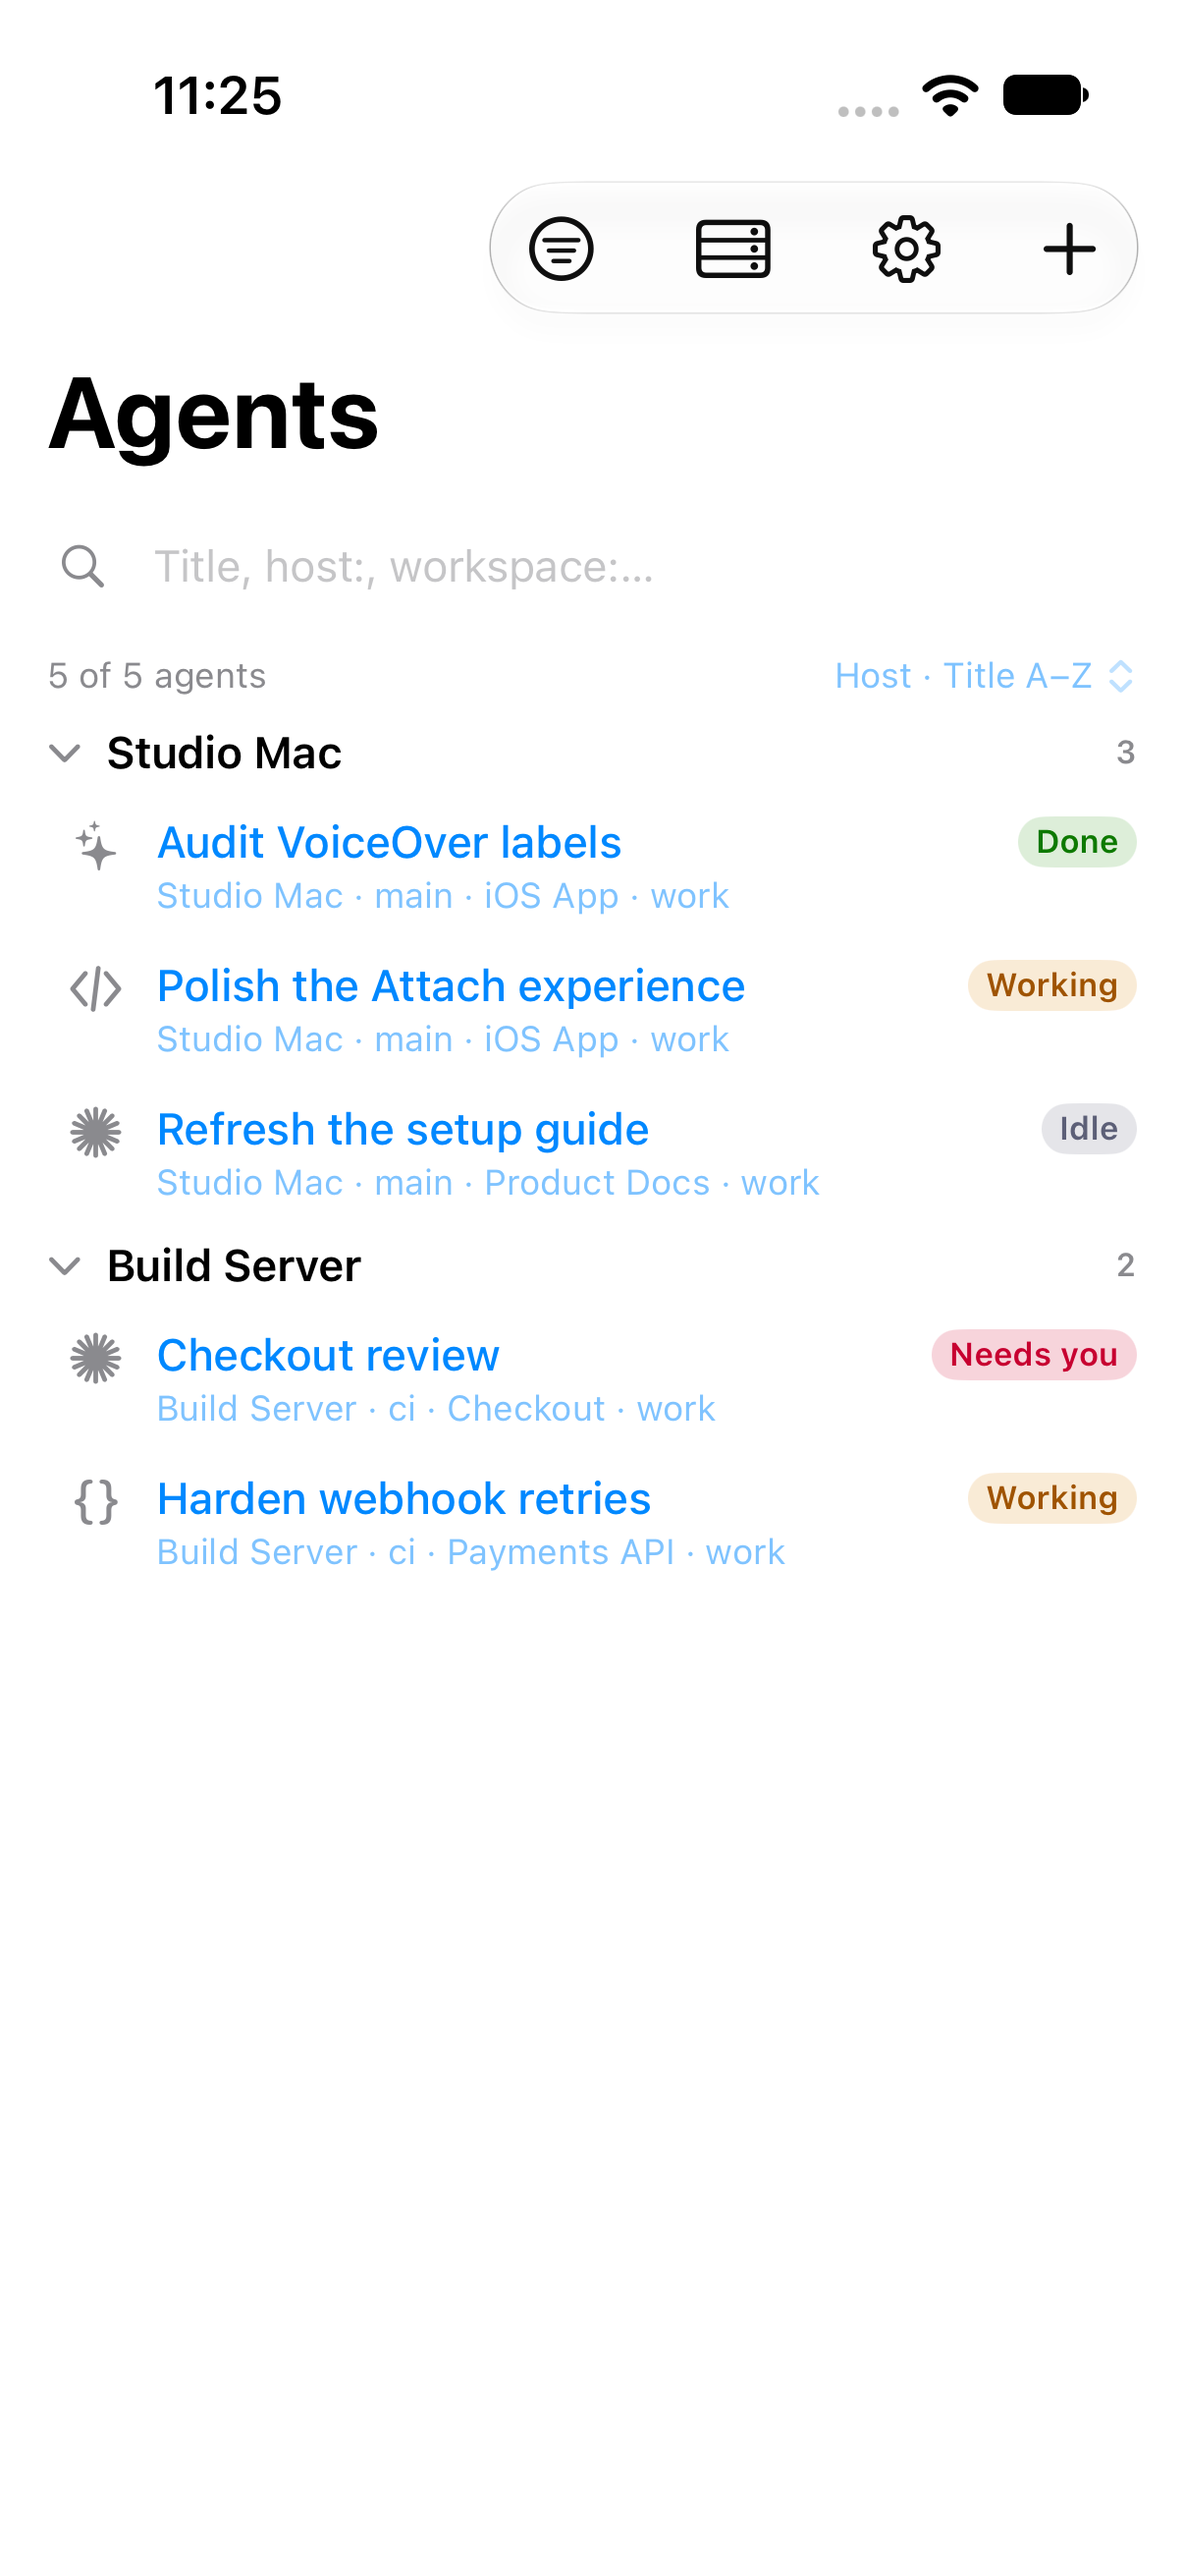
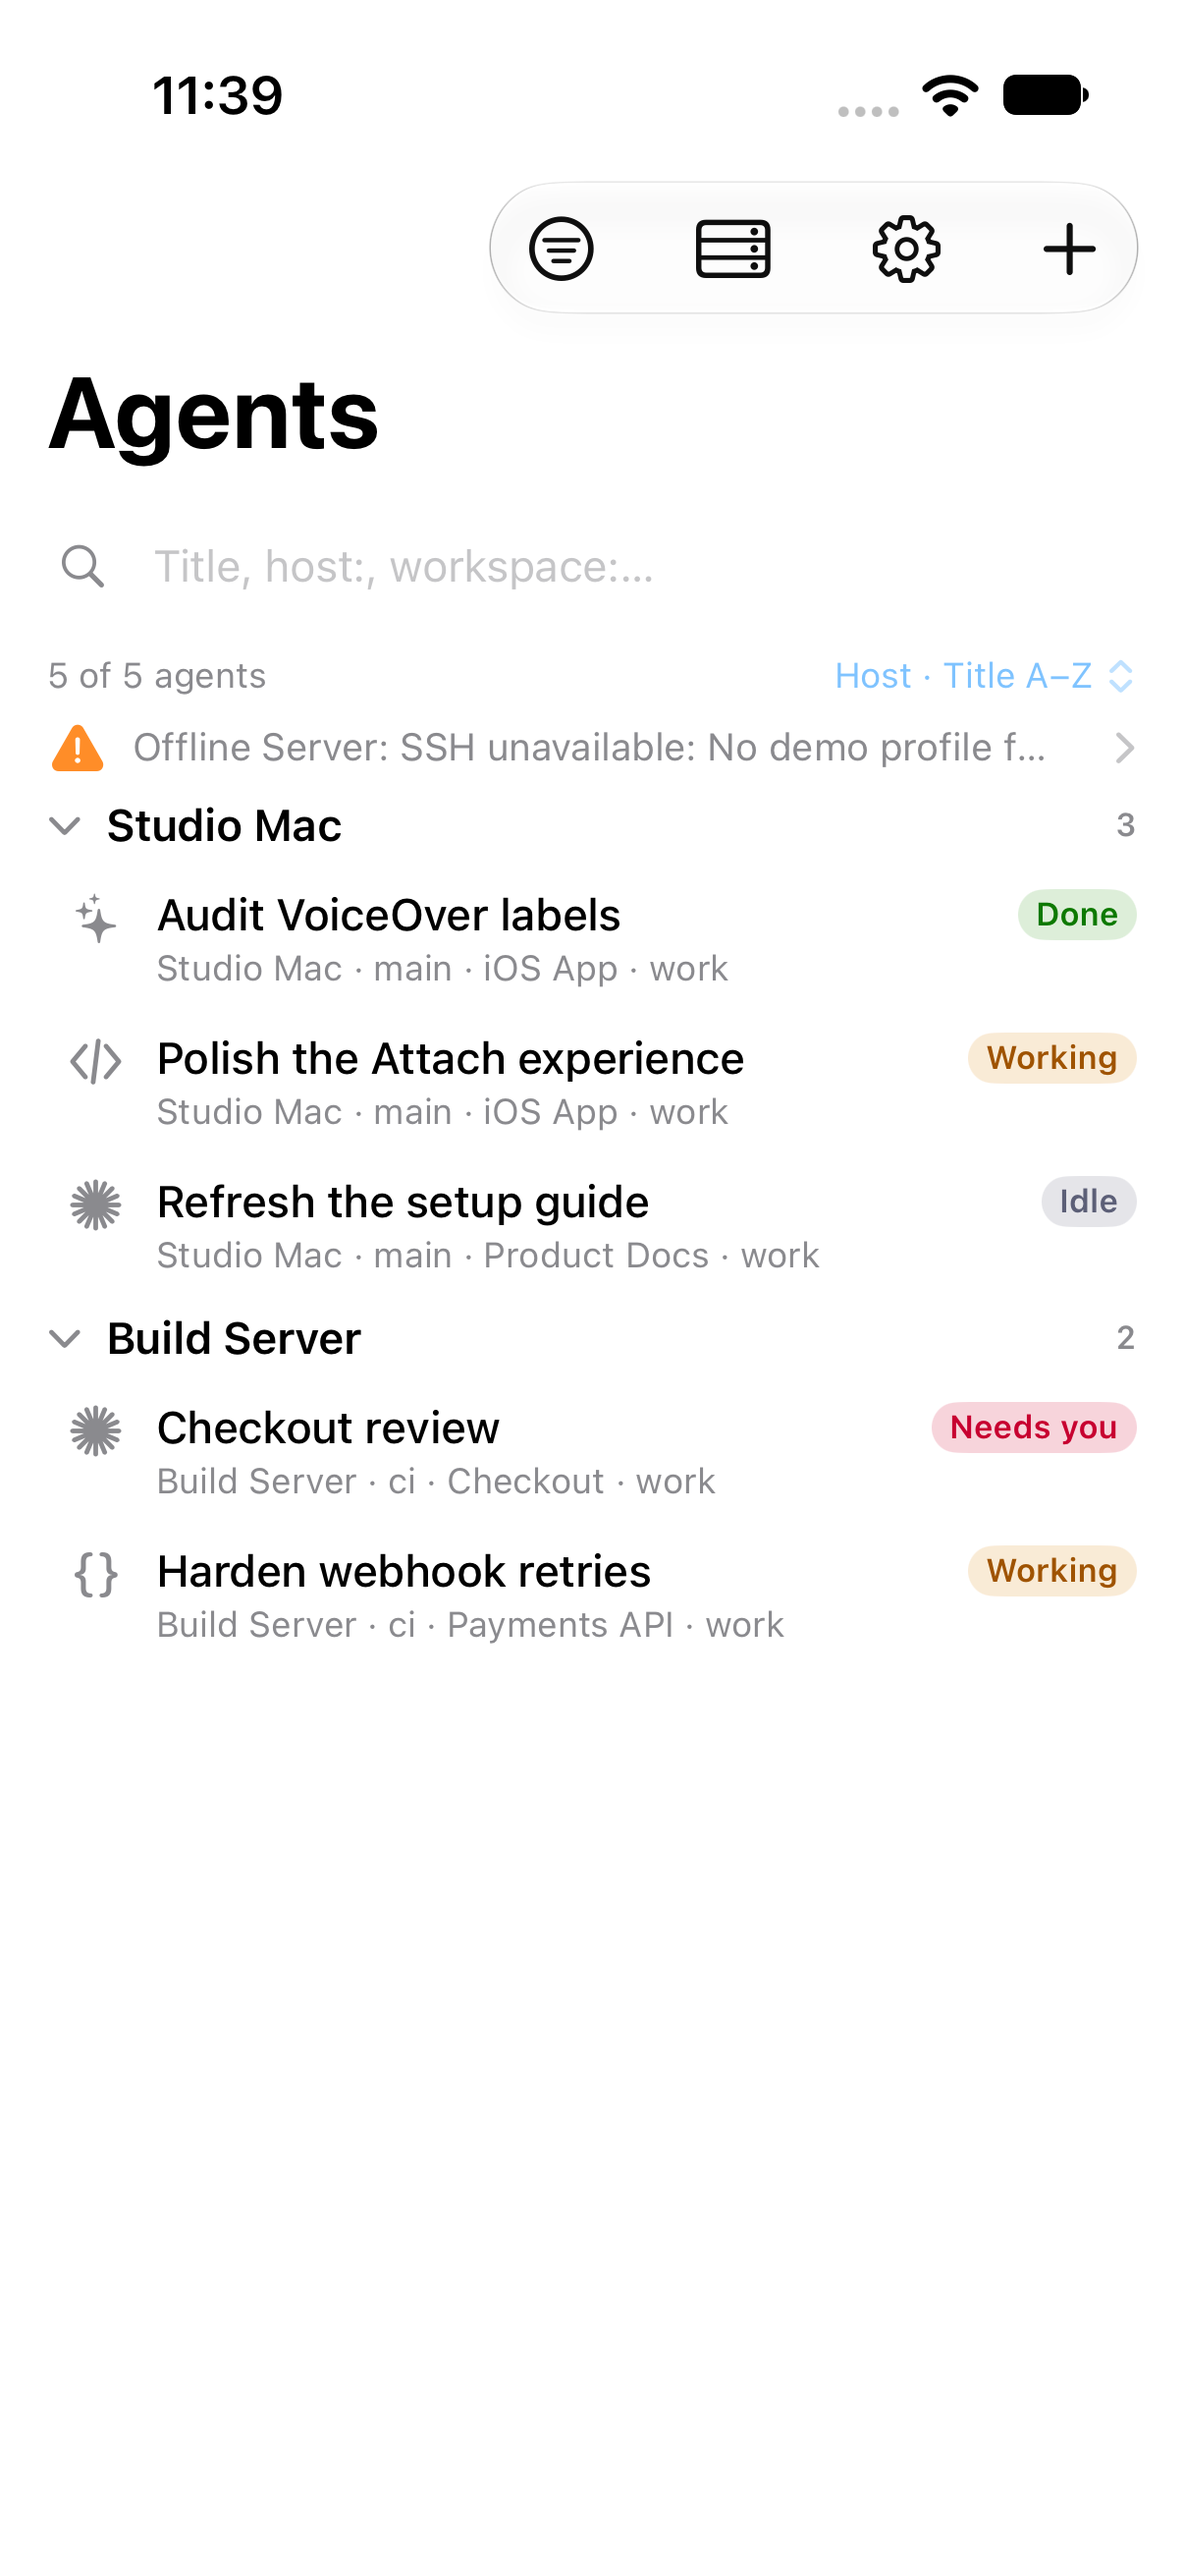
Agents redesign: fix grouped-path regressions
Plain NavigationLink styling (neutral tint, press affordance kept);
host-issue rows in the grouped ScrollView reuse the flat list's
presentHosts handler (tappable, proven). Demo fixture gains an
always-offline third host for the deterministic issue-row proof.

diff --git a/Tests/HeelerTests/DemoScreenshotModeTests.swift b/Tests/HeelerTests/DemoScreenshotModeTests.swift
@@ -21,11 +21,13 @@
             let profiles = DemoScreenshotFixture.profiles
             let agents = hosts.flatMap { profiles[$0.id]?.snapshot.agents ?? [] }
 
-            #expect(hosts.map(\.displayName) == ["Studio Mac", "Build Server"])
+            #expect(hosts.map(\.displayName)
+                == ["Studio Mac", "Build Server", "Offline Server"])
             #expect(
                 hosts.map(\.id) == [
                     DemoScreenshotFixture.studioHostID,
                     DemoScreenshotFixture.buildHostID,
+                    DemoScreenshotFixture.offlineHostID,
                 ])
             #expect(Set(agents.map(\.agentStatus)) == [.blocked, .working, .done, .idle])
             #expect(
@@ -41,9 +43,13 @@
             await composition.console.resume()
             defer { composition.console.setHosts([]) }
 
+            // The Offline Server never connects (no demo profile), so
+            // its snapshot legitimately never arrives — wait on the
+            // connectable Hosts only.
             while composition.console.agents.count != 5
-                || composition.hosts.hosts.contains(where: {
-                    composition.console.sidebarSnapshots.snapshot(for: $0.id) == nil
+                || composition.hosts.hosts.contains(where: { host in
+                    host.id != DemoScreenshotFixture.offlineHostID
+                        && composition.console.sidebarSnapshots.snapshot(for: host.id) == nil
                 })
             {
                 let changes = AsyncStream<Void>.makeStream()
@@ -60,9 +66,15 @@
             #expect(composition.console.agents.count == 5)
             #expect(composition.console.agents.first?.agent.status == .blocked)
             #expect(composition.console.agents.first?.hostName == "Build Server")
-            #expect(composition.console.hostStatuses.values.allSatisfy { $0 == .connected })
+            // The Offline Server never connects by design; the rest
+            // must all be connected.
+            #expect(composition.console.hostStatuses
+                .filter { key, _ in key != DemoScreenshotFixture.offlineHostID }
+                .values.allSatisfy { $0 == .connected })
+            #expect(composition.console.hostStatuses[DemoScreenshotFixture.offlineHostID] != .connected)
 
-            for host in composition.hosts.hosts {
+            for host in composition.hosts.hosts
+            where host.id != DemoScreenshotFixture.offlineHostID {
                 let bytes = try await composition.console.withNotificationTransport(for: host.id) {
                     try await $0.readSidebarLayout()
                 }

diff --git a/Tests/HeelerUITests/AgentsRedesignProofTests.swift b/Tests/HeelerUITests/AgentsRedesignProofTests.swift
@@ -375,6 +375,36 @@ final class AgentsRedesignProofTests: XCTestCase {
         print("MEASURED group header height: \(headerHeight)pt")
     }
 
+    // MARK: Re-review regressions — grouped-mode host issues navigate
+
+    func testGroupedHostIssueRowNavigatesToHosts() {
+        resetViewMenu()
+        waitToExist(row(containing: "Polish the Attach experience"))
+        // Group by state: the host-issue rows (Offline Server, which fails
+        // to connect in the demo fixture) render above the groups and must
+        // navigate to Hosts — the SAME handler as the flat list.
+        let menu = app.buttons["Agent list view options"].firstMatch
+        menu.tap()
+        let stateGroup = app.buttons["Agent state"].firstMatch
+        XCTAssertTrue(stateGroup.waitForExistence(timeout: 5))
+        stateGroup.tap()
+        XCTAssertTrue(staticText(containing: "Needs you").waitForExistence(timeout: 5))
+
+        let issue = app.buttons.matching(
+            NSPredicate(format: "label CONTAINS %@", "Offline Server")).firstMatch
+        XCTAssertTrue(
+            issue.waitForExistence(timeout: UITestTimeouts.standard),
+            "the offline host's issue row must render in grouped mode")
+        captureScreenshot(app, "agents-grouped-neutral-tint", lifetime: .keepAlways)
+        issue.tap()
+        // The Hosts surface presents (HostListView owns its navigation
+        // stack, so its bar appears).
+        let hostsBar = app.navigationBars.firstMatch
+        XCTAssertTrue(hostsBar.waitForExistence(timeout: UITestTimeouts.standard),
+                      "tapping the issue row must present Hosts")
+        captureScreenshot(app, "agents-grouped-issue-tapped-hosts", lifetime: .keepAlways)
+    }
+
     // MARK: §B2 — empty state
 
     func testSearchEmptyState() {

diff --git a/Sources/Heeler/Console/ConsoleView.swift b/Sources/Heeler/Console/ConsoleView.swift
@@ -549,14 +549,27 @@ struct ConsoleView: View {
         }
     }
 
-    /// Host issues in the ScrollView grouped path: same rows, no List
-    /// chrome.
+    /// Host issues in the ScrollView grouped path: the SAME functional
+    /// rows as the flat list (re-review regression #2 — the earlier
+    /// version dropped the Button wrapper and left a dead chevron).
     @ViewBuilder
     private var visibleHostIssuesView: some View {
         ForEach(visibleHostIssues) { issue in
-            hostIssueRow(issue, showsChevron: issue.navigates)
+            if issue.navigates {
+                Button {
+                    presentHosts(issue.hostID)
+                } label: {
+                    hostIssueRow(issue, showsChevron: true)
+                }
+                .buttonStyle(.plain)
+                .accessibilityHint("Opens this Host's settings.")
                 .padding(.horizontal, 16)
                 .padding(.vertical, 2)
+            } else {
+                hostIssueRow(issue, showsChevron: false)
+                    .padding(.horizontal, 16)
+                    .padding(.vertical, 2)
+            }
         }
     }
 
@@ -641,6 +654,11 @@ struct ConsoleView: View {
             // NavigationLink itself is dropped by List row layout.
             .padding(.leading, leadingIndent)
         }
+        // Re-review regression #1: outside a List's plain rows (the
+        // grouped ScrollView path), NavigationLink renders the accent
+        // link tint — the approved look is neutral. `.plain` restores
+        // the flat rows' colors everywhere; the press affordance stays.
+        .buttonStyle(.plain)
         .hoverEffect(.highlight)
         .contextMenu {
             let pinned = console.pins.isPinned(

diff --git a/Sources/Heeler/Demo/DemoScreenshotMode.swift b/Sources/Heeler/Demo/DemoScreenshotMode.swift
@@ -265,7 +265,22 @@
                 address: "build.demo.invalid",
                 username: "builder",
                 sessionName: "ci"),
+            // A third machine that fails to connect (no demo profile):
+            // the Console's deterministic host-issue row — the flat and
+            // grouped lists both navigate it to the same Hosts handler.
+            Host(
+                id: offlineHostID,
+                name: "Offline Server",
+                address: "offline.demo.invalid",
+                username: "developer",
+                sessionName: "main"),
         ]
+
+        static let offlineHostID = UUID(
+            uuid: (
+                0x33, 0x33, 0x33, 0x33, 0x33, 0x33, 0x43, 0x33,
+                0x83, 0x33, 0x33, 0x33, 0x33, 0x33, 0x33, 0x33
+            ))
 
         static let profiles: [Host.ID: DemoHostProfile] = [
             studioHostID: DemoHostProfile(
